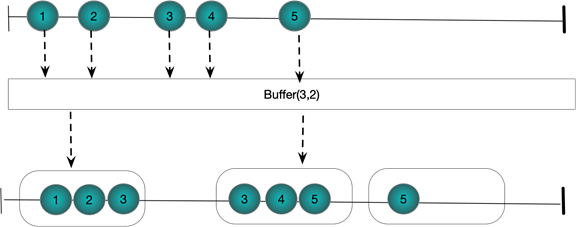
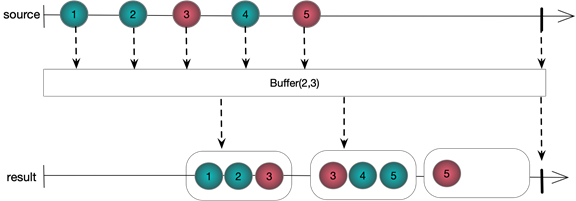
added more buffer examples

diff --git a/Rx/CheatSheets/TimeShiftingStreams.cs b/Rx/CheatSheets/TimeShiftingStreams.cs
@@ -20,7 +20,7 @@ namespace RiskAndPricingSolutions.Rx.CheatSheets
         }
 
         [Test]
-        public void BufferWithCountAndSkipSkipping()
+        public void BufferWithCountAndSkip1()
         {
             Observable.Range(1, 5)
                 .Buffer(2, 3)
@@ -28,7 +28,7 @@ namespace RiskAndPricingSolutions.Rx.CheatSheets
         }
 
         [Test]
-        public void BufferWithCountAndSkipOverlapping()
+        public void BufferWithCountAndSkip2()
         {
             Observable.Range(1, 5)
                 .Buffer(3, 2)
@@ -36,10 +36,34 @@ namespace RiskAndPricingSolutions.Rx.CheatSheets
         }
 
         [Test]
-        public void BufferOpeningClosingSelector()
+        public void BufferWithTimeSpan()
         {
-          
+            EventWaitHandle ewh = new AutoResetEvent(false);
+            Observable
+                .Interval(TimeSpan.FromSeconds(0.3))
+                .Take(6)
+                .Buffer(TimeSpan.FromSeconds(1.0))
+                .Subscribe(ints => WriteLine(string.Join(",", ints)),()=>ewh.Set());
+
+            ewh.WaitOne();
         }
+
+        [Test]
+        public void BufferWithTimeSpanAndTimeShift1()
+        {
+            // Start a new buffer every 0.5 seconds and each buffer is 1.0 second long
+            // to give overlapping behaviour
+            EventWaitHandle ewh = new AutoResetEvent(false);
+            Observable
+                .Interval(TimeSpan.FromSeconds(0.3))
+                .Take(6)
+                .Buffer(TimeSpan.FromSeconds(1.0), TimeSpan.FromSeconds(0.4))
+                .Subscribe(ints => WriteLine(string.Join(",", ints)), () => ewh.Set());
+
+            ewh.WaitOne();
+        }
+
+
 
         [Test]
         public void BufferWithClosingSelector()

diff --git a/Rx/CheatSheets/TimeShiftingStreams.md b/Rx/CheatSheets/TimeShiftingStreams.md
@@ -1,42 +1,137 @@
 # Time Shifting CheatSheet
-### Buffer(int count)
-Consider the following code which highlights the use of **Buffer(int)** to transform an observable sequence of int into an observable sequence of list of int. We consider each List<int> a buffer. Most of the examples below define the buffers using element counts however we can equally well use time intervals. The API support both approaches
 
-##### C#
+## Buffering 
+The various overloads of Buffer enable one to group together elements from an input stream. The resulting groups are called buffers. The basic idea then is to take a stream IObservable<T> and produce a stream IObservable<IList<T>>. Buffers can be perfectly contiguous with every source element existing in one and only one result buffer; skipping with some source elements being completely left out of the result bugffers or overlapping where some source elements make it into more than once destination buffer.
+
+*Buffering Behaviour*
+* Perfectly contiguous 
+* Overlapping
+* Skipping
+
+ Buffers can be defined by source element count, time interval or via open and close signals.
+
+*Buffer Definition*
+* Source element count
+* time interval
+* opening and closing signals
+
+
+### Buffer(int count)
+Supports perfectly contiguous buffers in the result stream
+
+*C# Sample Code*
 ```csharp
 Observable
  .Range(0, 5)
  .Buffer(2)
  .Subscribe(ints => WriteLine(string.Join(",", ints)));
 ```
-The following figure shows graphically what is happening. The buffers contain at most count items. Notice the final buffer has less than two items because the source stream completes
-##### Marble Diagram
+*Output*
+```
+1,2
+4,5
+```
+
+The following figure shows graphically what is happening. Each buffer contains at most count items. Notice the final buffer has less than two items because the source stream completes
+
+*Marble Diagram*
+
 ![Buffer(Int)](Resources/Buffer(int).png)
 
 
-## Buffer(int count,int skip) - Skipping Elements
-We start a new buffer every skip elements and each buffer is at most count elements long. If skip is greater than count as in the example below then we miss out some elements 
+## Buffer(int count,int skip)
+By taking two integer arguments this overload of Buffer supports non-contiguous result buffers. Skip defines the number of elements between each buffer opening and count defines the maximum number of elements in each buffer. If skip is more than count then we miss out some source elements from the destination. If skip is less than count then we have overlapping buffers with some elements making it into more than one buffer. Of course if skip is equal to count we have the exact same behaviour as Buffer(int count), that is to say perfectly contiguous buffers. Let us look at each case in turn
 
-##### C#
+#### Skipping Elements
+We set the count to 2 and the skip to 3. A new buffer is started every three elements and hold at most 2 elements.
+
+*C# Sample Code*
 ```csharp           
-Observable.Range(1, 6)
+Observable.Range(1, 5)
  .Buffer(2, 3)
  .Subscribe(ints => WriteLine(string.Join(",", ints)));
 ```
-##### Marble Diagram
+*Output*
+```
+1,2
+4,5
+```
+
+*Marble Diagram*
+
 ![Buffer(Int,Int)](Resources/Buffer(int,int).png)
 
-## Buffer(int count,int skip) - Overlapping Elements
-We start a new buffer every skip elements and each buffer is at most count elements long. If skip is less than count as in the example below then we overlap out some elements 
+#### Overlapping Elements
+We set the count to 3 and the skip to 2. A new buffer is started every two elements and hold at most three elements. The last element from each buffer is also duplicated as the first element in the next buffer
 
-##### C#
+*C# Sample Code*
 ```csharp           
 Observable.Range(1, 5)
  .Buffer(3, 2)
  .Subscribe(ints => WriteLine(string.Join(",", ints)));
 ```
-##### Marble Diagram
-![Buffer(Int,Int)Overlap](Resources/Buffer(int,int)Overlap.png)
+*Output*
+```
+1,2,3
+3,4,5
+5
+```
+*Marble Diagram*
+
+![Buffer(Func Observable,Observable)](Resources/Buffer(FuncObservable,Observable).png)
+
+### Buffer(Timespan timeSpan)
+Partitions each element of a source stream into contiguous buffers in the result stream. The buffers in the result stream are defined by the timing of events in the source stream.
+
+*C# Sample Code*
+```csharp    
+EventWaitHandle ewh = new AutoResetEvent(false);
+
+Observable
+ .Interval(TimeSpan.FromSeconds(0.3))
+ .Take(6)
+ .Buffer(TimeSpan.FromSeconds(1.0))
+ .Subscribe(ints => WriteLine(string.Join(",", ints)),()=>ewh.Set());
+
+ ewh.WaitOne();
+```
+*Output*
+```
+0,1,2
+3,4,5
+```
+
+*Marble Diagram*
+
+![Buffer(Time Span)](Resources/Buffer(TimeSpan).png)
+
+### Buffer(Timespan timeSpan, TimeSpan timeshift)
+As with using Buffer(int,int) this overloads support overlapping and skipping elements by specifying two TimeSpans. We consider each in turn
+
+#### Overlapping Elements
+*C# Sample Code*
+```csharp    
+EventWaitHandle ewh = new AutoResetEvent(false);
+Observable
+ .Interval(TimeSpan.FromSeconds(0.3))
+ .Take(6)
+ .Buffer(TimeSpan.FromSeconds(1.0), TimeSpan.FromSeconds(0.4))
+ .Subscribe(ints => WriteLine(string.Join(",", ints)), () => ewh.Set());
+
+ ewh.WaitOne();
+```
+*Output*
+```
+0,1,2
+1,2,3
+2,3,4
+3,4,5
+5
+```
+*Marble Diagram*
+
+![Buffer(Timespan,Time Span)](Resources/Buffer(Timespan,TimeSpan).png)
+
 
 
 ### Buffer(Func<IObservable<TClosingSelector>> ClosingSelector)
